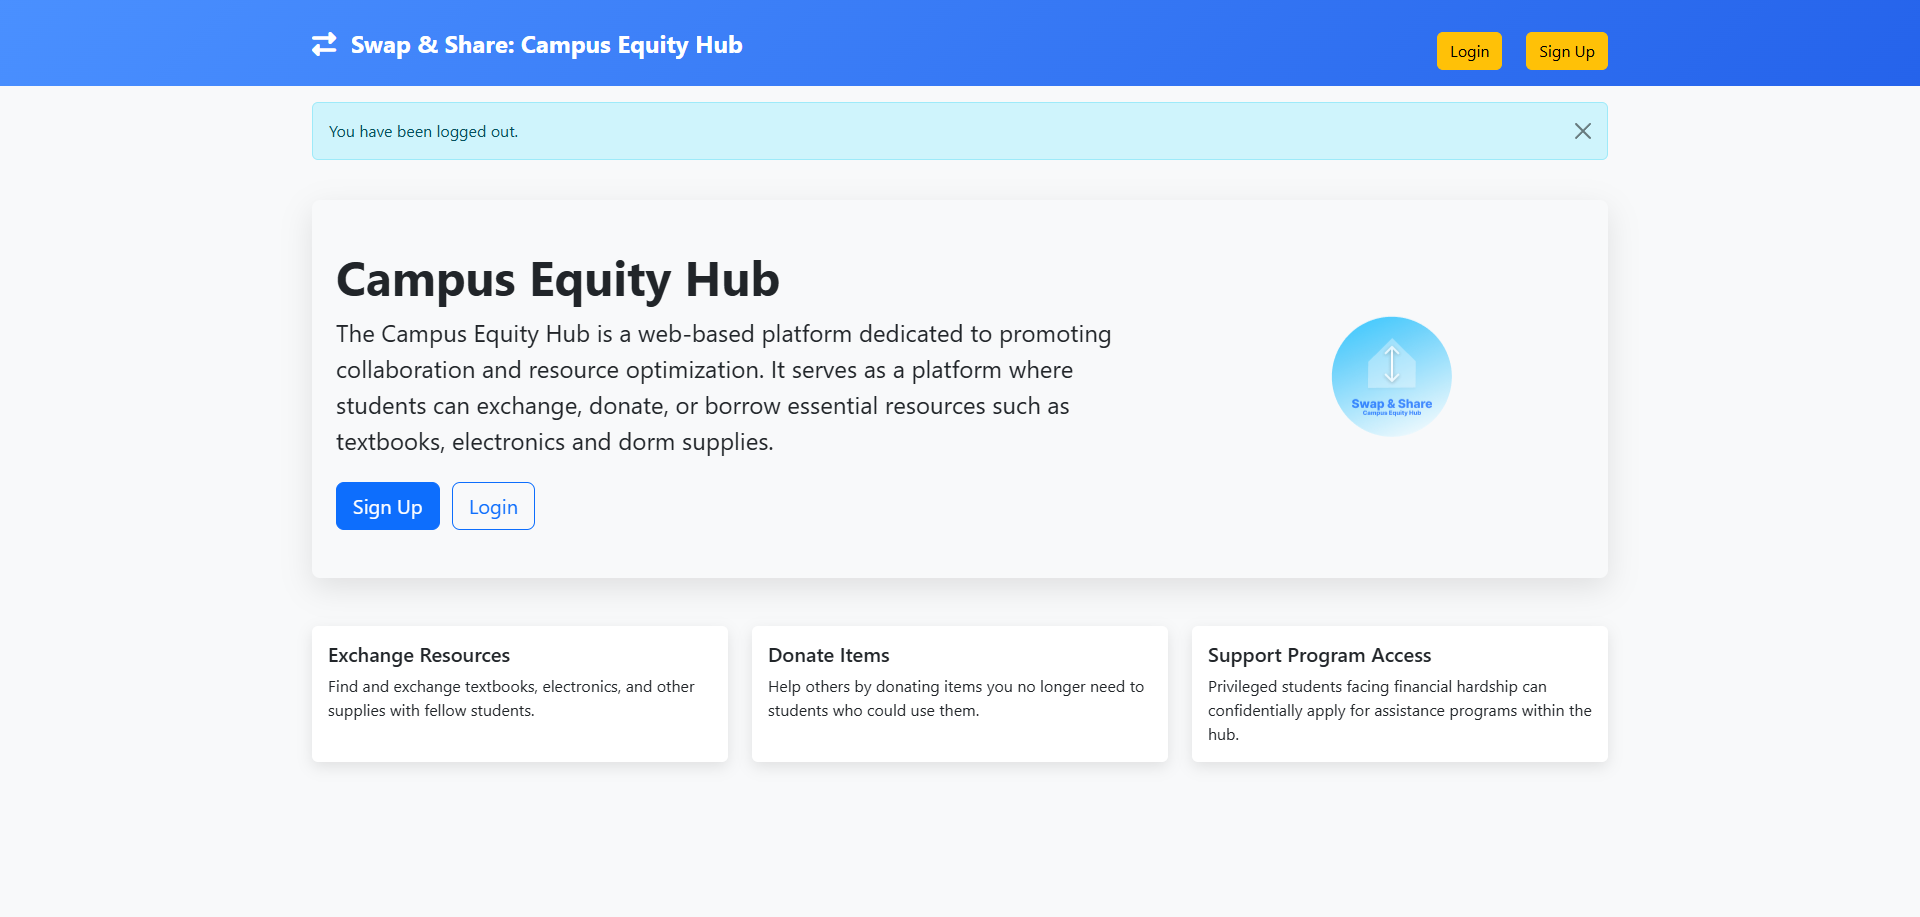
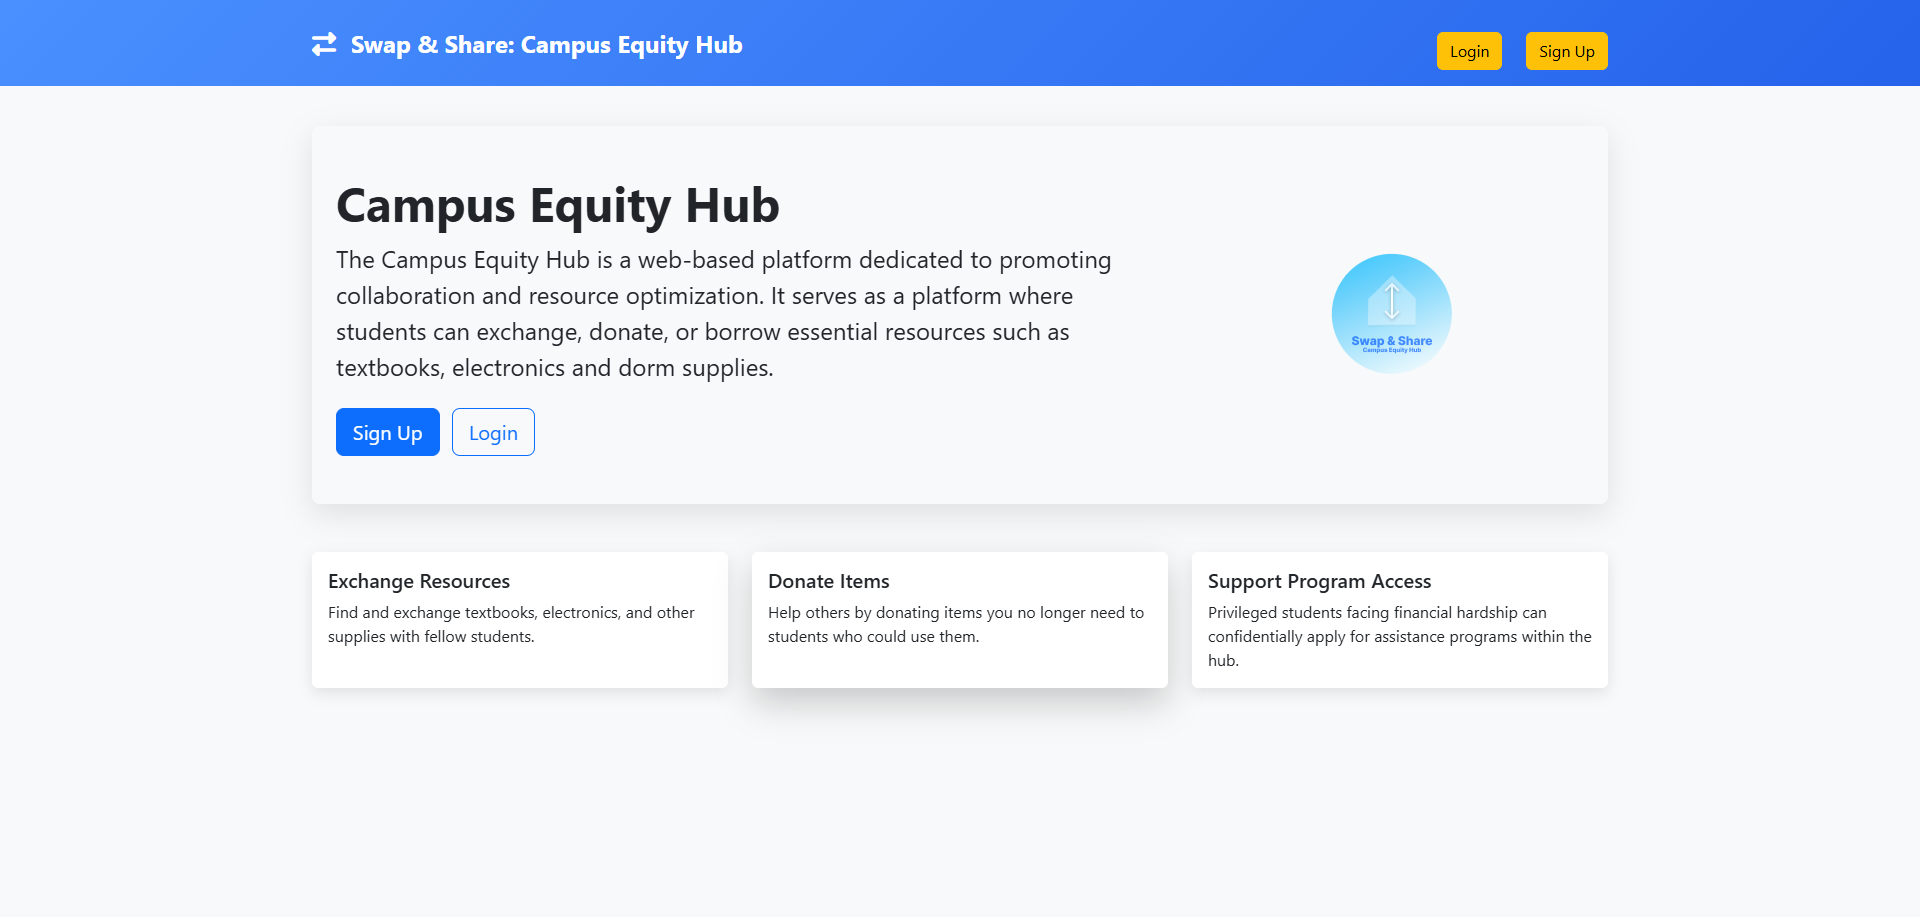
feat: add projects data, contact section, footer, and update site metadata

diff --git a/src/data/projects.ts b/src/data/projects.ts
@@ -18,7 +18,7 @@ export const projects: Project[] = [
     id: "1",
     title: "BlueStep Connect",
     description:
-      "A cross-platform motion controller framework that transforms Android smartphones into wireless controllers for PC games.",
+      "A cross-platform Bluetooth framework turning Android phones into motion game controllers for PC.",
     longDescription:
       "BlueStep Connect is a software framework that enables Android smartphones to act as motion-based controllers for PC games through Bluetooth Low Energy. The system consists of an Android controller application, a PC bridge server, and a cross-engine SDK that allows developers to integrate motion controls into games. It supports real-time sensor streaming, Xbox controller emulation through ViGEm, customizable controller layouts, and game engine integration.",
     category: "Final Year Project",
@@ -78,12 +78,13 @@ export const projects: Project[] = [
     description:
       "A campus marketplace platform that enables students to exchange and share items.",
     longDescription:
-      "Campus Equity Hub is a web-based marketplace platform designed for students to exchange items within the campus community. The platform provides item listing, verification, special status approval, and swap management workflows.",
+      "Campus Equity Hub is a web-based marketplace platform designed for students to exchange items within the campus community. The platform provides item listing, verification, special status approval and swap management workflows.",
     role:
-      "Implemented frontend and backend features including special status application, item verification, special status verification, and swap acceptance workflows.",
+      "Implemented frontend and backend features including special status application, item verification, special status verification and swap acceptance workflows.",
     category: "Team Project",
     image: "src/assets/images/campus-equity-hub.png",
     githubUrl: "https://github.com/TheINSANE333/Campus-Equity-Hub",
+    demoUrl: "https://simple-login-4ndj.onrender.com/",
     technologies: [
       "Flask",
       "Python",
@@ -96,6 +97,67 @@ export const projects: Project[] = [
       "Special status application and approval",
       "Swap acceptance management",
       "Software design pattern implementation"
+    ]
+  },
+  {
+    id: "4",
+    title: "Kindergarten Payment Management System",
+    description:
+      "A web-based system that streamlines kindergarten fee tracking and financial record management.",
+    longDescription:
+      "Kindergarten Payment Management System is a web application developed to simplify the management of student payments, invoices and financial records. The system provides a centralized platform for administrators to manage student information, track payment history, generate payment records and maintain accurate financial data. The backend architecture was designed using Flask and SQLAlchemy with database-driven operations and secure user access control.",
+    role:
+      "Designed and developed the backend architecture, database integration, authentication and authorization modules.",
+    category:
+      "Team Project",
+    image:
+      "src/assets/images/kindergarten-payment.png",
+    githubUrl:
+      "https://github.com/Foreen03/PaymentSystem",
+    technologies: [
+      "Python",
+      "Flask",
+      "SQLAlchemy",
+      "Bootstrap"
+    ],
+    features: [
+      "Student information management",
+      "Payment tracking and record management",
+      "Database integration using SQLAlchemy ORM",
+      "User authentication and authorization",
+      "CRUD operations for financial records",
+      "Responsive web interface"
+    ],
+  },
+  {
+    id: "5",
+    title: "Kwazam Chess",
+    description:
+      "A Java-based chess game implementing object-oriented design principles, MVC and design patterns.",
+    longDescription:
+      "Kwazam Chess is a desktop chess application developed in Java that implements complete chess gameplay mechanics including piece movement validation, turn management and game state handling. The project applies object-oriented programming principles, MVC architecture and software design patterns to improve code organization, maintainability and scalability.",
+    role:
+      "Designed and implemented the game logic, object-oriented architecture and user interaction components.",
+    category:
+      "Team Project",
+    image:
+      "src/assets/images/kwazam-chess.png",
+    githubUrl:
+      "https://github.com/Foreen03/Kwazam-Chess",
+    technologies: [
+      "Java",
+      "Java Swing",
+      "Object-Oriented Programming",
+      "MVC Architecture",
+      "Design Patterns"
+    ],
+    features: [
+      "Complete chess gameplay implementation",
+      "Legal move validation for chess pieces",
+      "Save & load game features",
+      "Object-oriented class hierarchy design",
+      "MVC architecture for separation of concerns",
+      "Design pattern implementation for maintainability"
     ],
   }
 ];

diff --git a/src/components/Footer.tsx b/src/components/Footer.tsx
@@ -1,4 +1,5 @@
-import { FaGithub, FaLinkedin, FaTwitter } from "react-icons/fa6";
+import { FaGithub, FaLinkedin } from "react-icons/fa6";
+import { Mail } from "lucide-react";
 
 export function Footer() {
   return (
@@ -19,9 +20,9 @@ export function Footer() {
             <FaLinkedin className="w-5 h-5" />
             <span className="sr-only">LinkedIn</span>
           </a>
-          <a href="https://twitter.com/Hanyi_Yeoh" target="_blank" rel="noreferrer" className="text-muted-foreground hover:text-foreground transition-colors">
-            <FaTwitter className="w-5 h-5" />
-            <span className="sr-only">Twitter</span>
+          <a href="mailto:[email redacted]" className="text-muted-foreground hover:text-foreground transition-colors">
+            <Mail className="w-5 h-5" />
+            <span className="sr-only">Email</span>
           </a>
         </div>
       </div>

diff --git a/src/sections/Contact.tsx b/src/sections/Contact.tsx
@@ -2,7 +2,7 @@ import { useState, useRef } from "react";
 import { motion } from "framer-motion";
 import { Button } from "../components/ui/button";
 import { Mail, MapPin, Send } from "lucide-react";
-import { FaGithub, FaLinkedin, FaTwitter } from "react-icons/fa6";
+import { FaGithub, FaLinkedin } from "react-icons/fa6";
 import {
   Dialog,
   DialogContent,
@@ -86,9 +86,9 @@ export function Contact() {
               <FaLinkedin className="w-8 h-8 text-muted-foreground group-hover:text-[#0077b5] transition-colors" />
               <span className="text-sm font-medium">LinkedIn</span>
             </a>
-            <a href="https://twitter.com" target="_blank" rel="noreferrer" className="group flex flex-col items-center gap-3 p-6 rounded-2xl bg-card/40 backdrop-blur-sm border border-border/50 hover:bg-card/80 transition-all hover:-translate-y-1">
-              <FaTwitter className="w-8 h-8 text-muted-foreground group-hover:text-[#1DA1F2] transition-colors" />
-              <span className="text-sm font-medium">Twitter</span>
+            <a href="mailto:[email redacted]" className="group flex flex-col items-center gap-3 p-6 rounded-2xl bg-card/40 backdrop-blur-sm border border-border/50 hover:bg-card/80 transition-all hover:-translate-y-1">
+              <Mail className="w-8 h-8 text-muted-foreground group-hover:text-primary transition-colors" />
+              <span className="text-sm font-medium">Email</span>
             </a>
             <div className="group flex flex-col items-center gap-3 p-6 rounded-2xl bg-card/40 backdrop-blur-sm border border-border/50 hover:bg-card/80 transition-all hover:-translate-y-1">
               <MapPin className="w-8 h-8 text-muted-foreground" />

diff --git a/index.html b/index.html
@@ -4,7 +4,8 @@
     <meta charset="UTF-8" />
     <link rel="icon" type="image/svg+xml" href="/vite.svg" />
     <meta name="viewport" content="width=device-width, initial-scale=1.0" />
-    <title>vite-app</title>
+    <meta name="description" content="Yeoh Han Yi — Software Engineer. Portfolio showcasing projects, skills, and experience." />
+    <title>Yeoh Han Yi | Portfolio</title>
   </head>
   <body>
     <div id="root"></div>